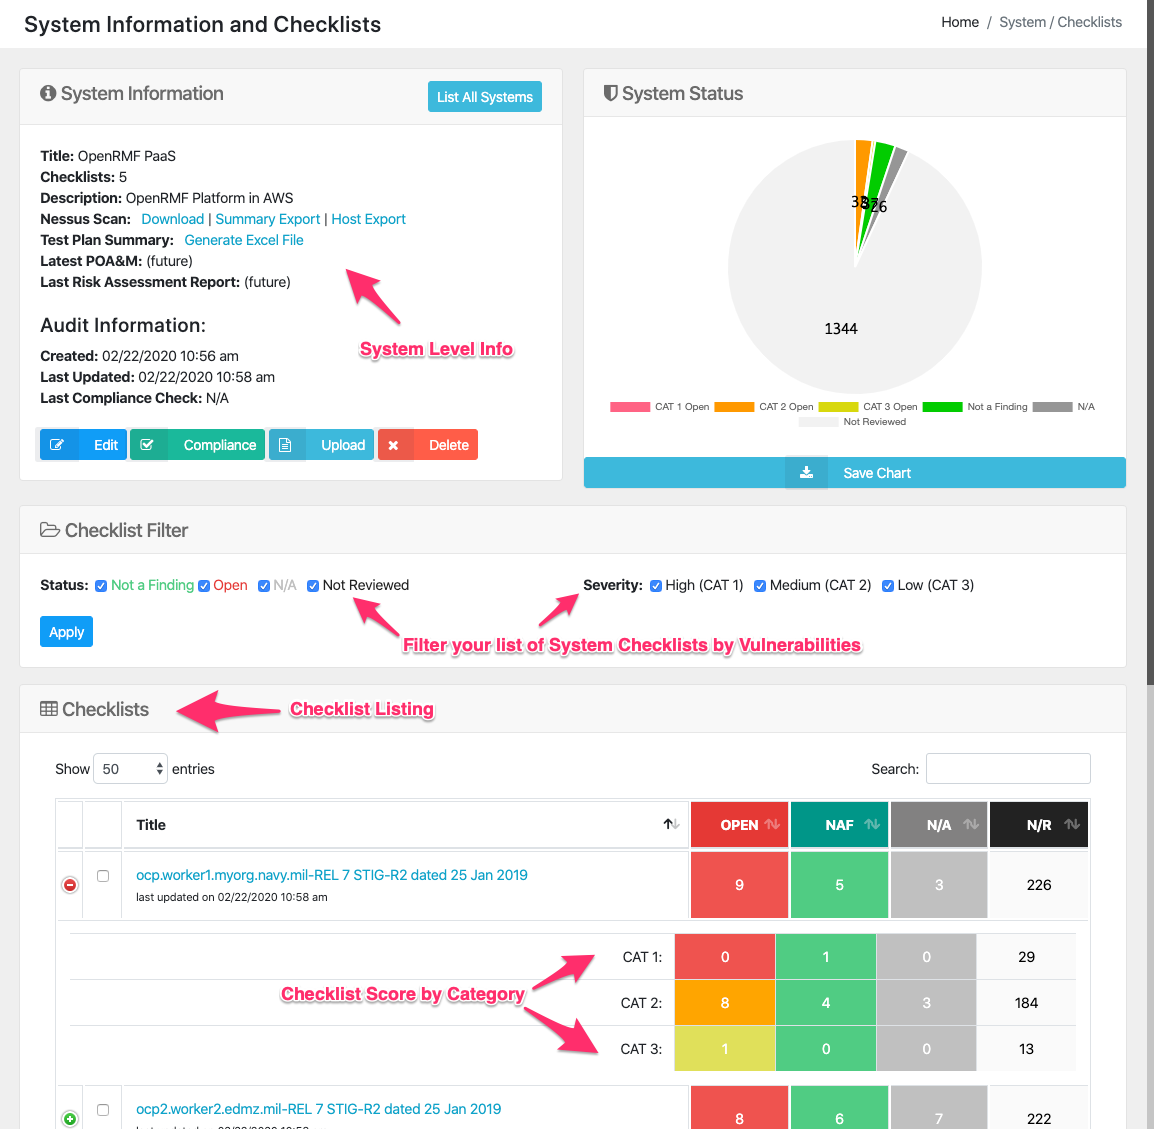
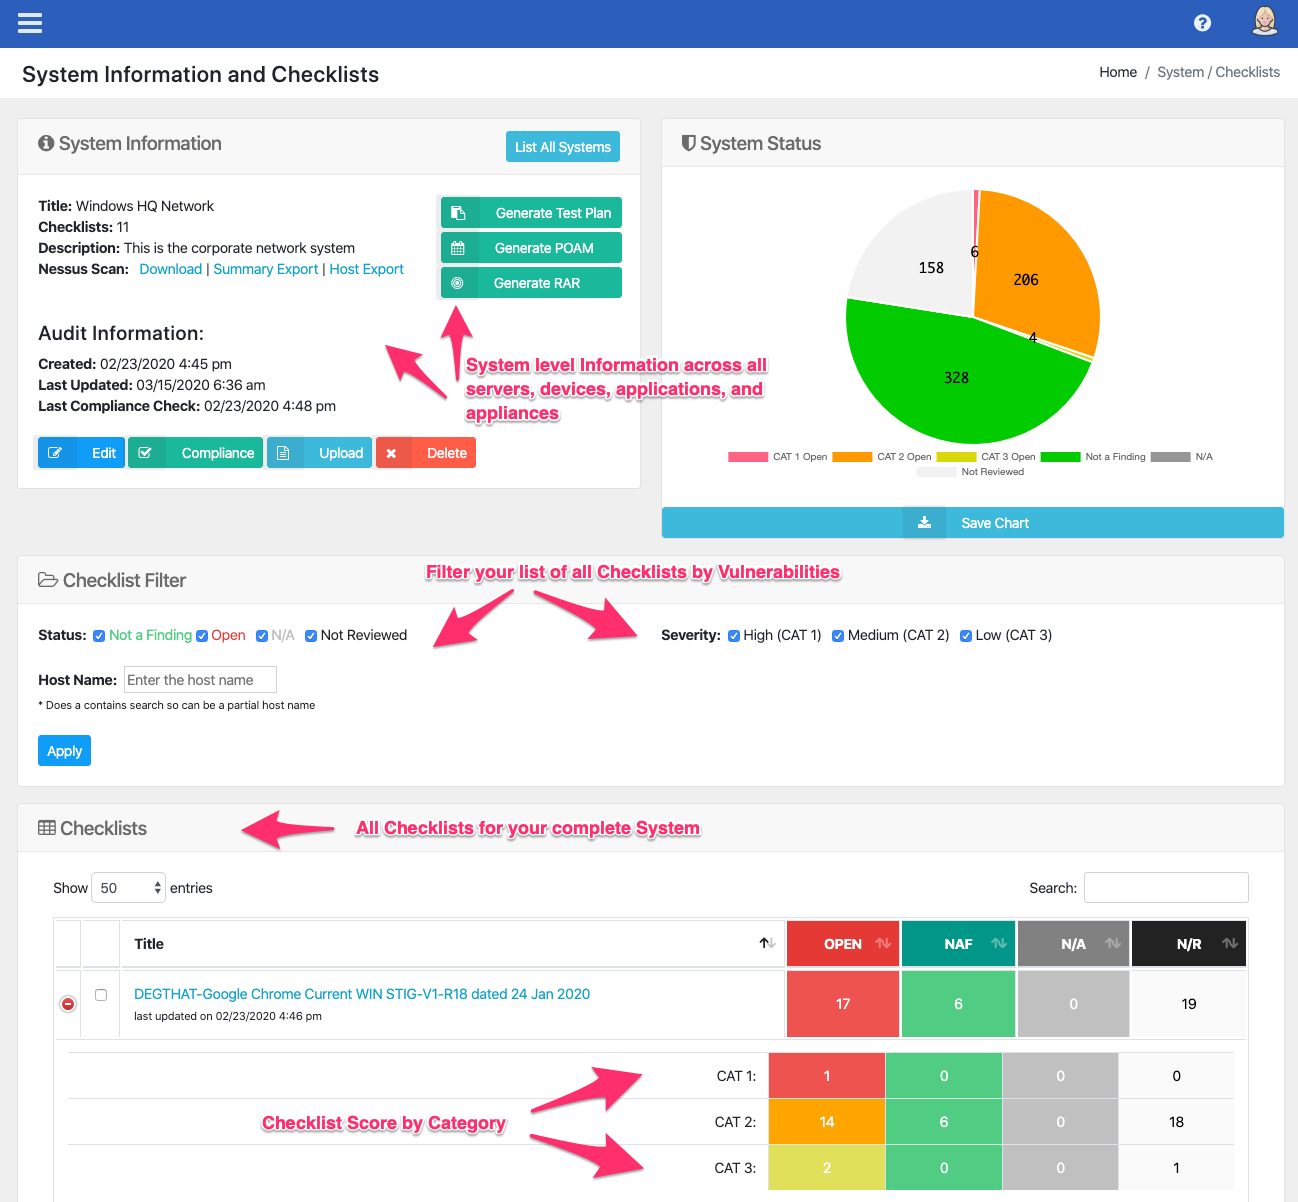
#76 updating the help docs online

Changed region(s): [[0.0, 0.0, 1.0, 1.0], [0.0312, 0.961, 0.0936, 1.0]]

diff --git a/docs/index.md b/docs/index.md
@@ -8,14 +8,20 @@ nav_order: 1
 Welcome to the OpenRMF Docs site. This site contains help screens, scenarios, screenshots and 
 other useful information to use the OpenRMF tool fo you and your team. 
 
-OpenRMF is the only open source tool to manage your DoD STIG checklists, generate NIST compliance, keep track of your security items that are Open or Not Reviewed, and shrink your timeline to submit for an ATO!
+OpenRMF is the only web-based open source tool to manage your DoD STIG checklists, generate NIST compliance, keep track of your security items that are Open or Not Reviewed, and massively shrink your timeline to collect data and submit for an ATO!
 
 See [What's New](./whatsnew.md) with the latest version.
 
 ## What it does
-OpenRMF manages your RMF documentation and removes the Cybersecurity mystery! It allows management to view the status of checklists and RMF progress on their systems. It allows IT administrators and developers to store their checklists and scans in a single place. It allows cybersecurity analysts to see the status of systems in a quick glance. And it allows assessors to have a single place to view the system and all its checklists so their job is more organized. 
+OpenRMF manages your RMF documentation and removes the Cybersecurity mystery! It allows management to view the status of checklists and RMF progress on their systems. 
 
-It has a great use for everyone! Most importantly: It minimizes the manual nature of managing all this data for you!
+It allows IT administrators and developers to store their checklists and scans in a single place. 
+
+It allows cybersecurity analysts to see the status of systems in a quick glance. 
+
+And it allows assessors to have a single place to view the system and all its checklists so their job is more organized. 
+
+It has great use cases for everyone! Most importantly: It greatly minimizes the manual nature of managing all this data for you!
 
 Some of the high level features are below:
 
@@ -24,38 +30,42 @@ Some of the high level features are below:
 * Upload a DISA Checklist CKL, DISA SCAP XCCDF format file or Nessus SCAP XCCDF format file easily to visualize your RMF process
 * Upload a .Nessus ACAS scan file to see Patch summary of Critical and High items
 * Automatically organizes your checklists by system
-* Live online editing of your checklist through your web browser with auditing of the changes
 * Single source of truth for your system checklists
 * Single source of truth for your latest Nessus patch scans
+* Live online editing of your checklist through your web browser with auditing of the changes
+* One-click creation of your POA&M for your entire system (all servers, devices, SCAP scans, manual checklists)
+* One-click creation of your Risk Assessment Report (RAR) for your entire system (all servers, devices, SCAP scans, manual checklists)
+* One-click creation of your Test Plan Summary for your entire system (all servers, devices, SCAP scans, manual checklists)
 * Interactive Reports and Searching of Nessus scan data
 * Interactive Reports and Searching of System and checklist vulnerability data
-* Management insight into Cybersecurity Status and Security Posture instantly
-* Generating of Test Plan Summary for your System
-* AuthN, AuthZ, and Role Based Access Control (RBAC) to control access to read as well as edit data
-* Run on premise, on a local machine, or in the cloud
 * Easily find errors and deltas across checklists in your system
 * Easily run a compliance report in seconds for your Low, Moderate, or High system
+* Management insight into Cybersecurity Status and Security Posture instantly
+* AuthN, AuthZ, and Role Based Access Control (RBAC) to control access to read as well as edit data
+* Run on premise, on a local machine, or in the cloud (testing on Raspberry Pi 4 now)
+* Containerized to run locally, in a container runtime, or in Kubernetes
 
 ## Why use OpenRMF
-The current way to implement the Risk Management Framework for your DoD Authority to Operate is VERY manual and VERY slow. It is driven by disparate pieces of a Java Viewer for checklists, massive amounts of MS Excel spreadsheets for viewing the checklists for management, MS Word documents, various PDF files, and more. Information is shared (hopefully!) via email and shared folders. And there is no one central place for developers, operations, management, and cybersecurity analysts to see the most up to date information that is needed to eventually submit to eMASS. 
+The current way to implement the Risk Management Framework for your DoD Authority to Operate is VERY manual and VERY, VERY slow. VERY slow.  It is driven by disparate pieces of a Java Viewer for checklists, massive amounts of MS Excel spreadsheets for viewing the checklists for management, MS Word documents, various PDF files, your own home grown applications to help automate pieces of this process, and more. Information is shared (hopefully!) via email and shared folders. And there is no one central place for developers, operations, management, and cybersecurity analysts to see the most up to date information that is needed to eventually submit to eMASS. 
 
 That changes with OpenRMF!
 
 OpenRMF solves this dilemma. All you need is a web browser to view the pertinent information on your checklists within your system. Checklists are grouped by system and quickly show information such as the number of Category 1, 2, and 3 items as well as the number of Open items versus the Not a Finding "closed" items. Without having to open every single checklist file in the heavy Java viewer DISA provides. 
 
-OpenRMF helps in a few ways:
+OpenRMF helps in several ways:
 * It is 100% browser based for all the major browsers (Chrome, Edge, Firefox, Safari, IE 11)
 * You can import multiple checklists for a single source-of-truth for all checklists
 * You can organize and manage your data by systems for a quicker, less stress filled way to see your system's risk profile
 * Reports for management highlight the most asked question on status and numbers of items by type
 * You can run a single compliance report across all your checklists based on the Low/Moderate/High label as well as PII data included
 * You can export any checklists to Excel or download a CKL file for viewing in the DISA Java Viewer
+* You can drill down to your problem areas across all your checklists quickly with a few clicks and get actionable data quickly
 
 With coming updates such as automating the Risk Assessment Report, automating the POA&M on fixes, as well as online editing of checklist status and comments OpenRMF is the app any DoD IT / Developer / Operations / Cybersecurity professional needs!
 
 More information can be found in our <a href="https://www.openrmf.io/doc/OpenRMF-Product-Information.pdf" target="_blank">product PDF</a> on our website.
 
 ## Architecture
-Below is the top level architecture as of version 0.11 and beyond, drawn via <a href="https://www.draw.io/" target="_blank">Draw.io</a>'s great tool. 
+Below is the top level architecture as of version 0.11 and beyond, drawn via <a href="https://app.diagrams.net/" target="_blank">Draw.io</a>'s great tool (now Diagrams.net). 
 
-![OpenRMF v0.10 Architecture](/assets/openRMF-Tool-Architecture.png)
+![OpenRMF v0.11 Architecture and beyond](/assets/openRMF-Tool-Architecture.png)

diff --git a/README.md b/README.md
@@ -74,7 +74,9 @@ You need a web browser that is fairly current. And you need Docker installed on 
 ## Run OpenRMF locally
 The best way to run this application (once you have Docker installed) is to go to the Code -- Releases tab https://github.com/Cingulara/openrmf-docs/releases and pull down the latest release. Unzip the file and then run the ./start.sh or .\start.cmd file to pull the latest images and run OpenRMF. Then you can open a local browser to http://{ip-address}:8080/ and see what happens. If you want to change the ports you only have to edit the docker-compose.yml file locally. These files are in the [scripts](scripts) folder of this repo.
 
-Be sure to check out the [Keycloak information](#authentication-with-keycloak) because OpenRMF version 0.8 and beyond has RBAC for AuthN and AuthZ on the web and API calls. Or you could use another OpenID compliant application to provide AuthN and AuthZ. _You need to setup Keycloak first before running OpenRMF._
+Be sure to check out the [Keycloak information](#authentication-with-keycloak) because OpenRMF version 0.8 and beyond has RBAC for AuthN and AuthZ on the web and API calls. Or you could use another OpenID compliant application to provide AuthN and AuthZ. 
+
+> You need to setup Keycloak first before running OpenRMF.
 
 > The data is currently mapped to internal Docker-managed volumes for persistence. You can run the "docker volume rm" command below if you wish to remove and start over as you test.  If you want persistence you could change the connection strings to another MongoDB server and adjust the docker-compose.yml accordingly. Or use a volume in your docker-compose.yml or individual docker commands. 
 
@@ -98,7 +100,9 @@ Starting with version 0.10.7 we include metrics tracking for all our major subsy
 
 ## Authentication with Keycloak
 
-Starting with version 0.8 we have AuthN and AuthZ setup for use. See the [Keycloak Document](keycloak.md) document for more information. _NOTE: You need to setup Keycloak before running OpenRMF. And you must get the .env file correctly setup._
+Starting with version 0.8 we have AuthN and AuthZ setup for use. See the [Keycloak Document](keycloak.md) document for more information. 
+
+> NOTE: You need to setup Keycloak before running OpenRMF. And you must get the .env file correctly setup.
 
 ## Creating MongoDB Users by Hand
 If you wish you can create a MongoDB setup locally to persist your data and see what it does. Checkout the [create users by hand](create-users-by-hand.md) readme for more on that. 

diff --git a/docs/artifacts.md b/docs/artifacts.md
@@ -1,0 +1,38 @@
+---
+title: Step 6 - Generate RMF Artifact Reports
+nav_order: 450
+---
+
+# Generating your System's RMF Artifacts
+
+With all your data in one place for your entire system, you can how start to generate the RMF artifacts required such as your POA&amp;M, Risk Assessment Report, and Test Summary Report. Below are examples of each. All of these can be found on the System 
+page where you see the title, list of checklists, overall score, and other data. 
+
+## Nessus Scan Export
+
+![OpenRMF Compliance Generator](/assets/nessus-export-xlsx.png)
+
+The Nessus Scan Export shows patching items across your system servers/hosts, sorted by criticality/severity, and gives details on the ID, description, and severity level.
+
+## POA&amp;M Export
+
+![OpenRMF POA&M Generator](/assets/poam-export.png)
+
+The Plan of Actions and Milestones (POA&amp;M) Export lists all Open and Not Reviewed items across every single checklist within your system. The data is ordered by severity and then vulnerability so all high level items are near the top. The POA&amp;M is used to show your plan to address, mitigate, and/or close the items still open while you go through the RMF Process.
+
+## Test Plan Summary Export
+
+![OpenRMF Test Plan Summary Generator](/assets/test-plan-summary-export.png)
+
+The Test Plan Export shows all Nessus Patch data with items that need to be addressed in Critical and High (CAT I) down to Low (CAT III) items. It then shows similar data across all your checklists (manual and SCAP generated) in a similar fashion. This gives you a high level count of items per severity.  
+
+## Risk Assessment Report (RAR) Export
+
+![OpenRMF Risk Assessment Report Generator](/assets/rar-export.png)
+
+The RAR  shows all open or not reviewed items in a format to show you the host, the NIST control, the checklist the item was in, as well as severity of the item. This allows you to fill in the actual risk of this item as it pertains to your system and your risk profile. 
+
+
+## Color Coding Rules
+
+For compliance, a green color means all the vulnerabilities for that control are either Not a Finding or marked as Not Applicable. If 1 vulnerability is marked as Open, then that whole group is Open. And if there are any vulnerabilities that are Not Reviewed with no Open vulnerabilities for that group, then the whole group is marked as Not Reviewed.

diff --git a/docs/whatsnew.md b/docs/whatsnew.md
@@ -15,6 +15,10 @@ The latest working version is version 0.12. The recent updates on that are below
 * Filtering on the Checklist page by status and severity/category of Vulnerabilities within that checklist
 * Create a Test Plan Summary across your System of Checklists and Nessus ACAS scan data
 * Updated color coding throughout the UI for Open items to show severity / category better
+* Generating the POA&M for Open and Not Reviewed items for a system (across all checklists)
+* Generating the Risk Assessment Report (RAR) for a system (across all checklists)
+* Generating the Test Plan Summary for a system (across all checklists)
+* Upgrading a Checklist to the latest version and release with the click of a button!
 
 Version 0.11 updates are also below:
 * Interactive Reports for Nessus Scan data, System Score and Checklist Vulnerability Data

diff --git a/docs/reports.md b/docs/reports.md
@@ -37,4 +37,10 @@ This report lists out the controls and subcontrols across the RMF control listin
 ## System Checklist Vulnerability Report
 This reports lets you search on a vulnerability and see what hosts and checklists have that vulnerability across all checklists within your system.
 
-![OpenRMF Controls Report](/assets/reports-vulnerabilities.png)
+![OpenRMF Checklist Vulnerability Report](/assets/reports-vulnerabilities.png)
+
+
+## System Checklist Vulnerability Report
+This reports lets you search on a system and major RMF control and see what servers, workstations, devices, etc. relate to that control across all your checklists.
+
+![OpenRMF RMF Controls by Host Report](/assets/reports-host-for-control.png)
